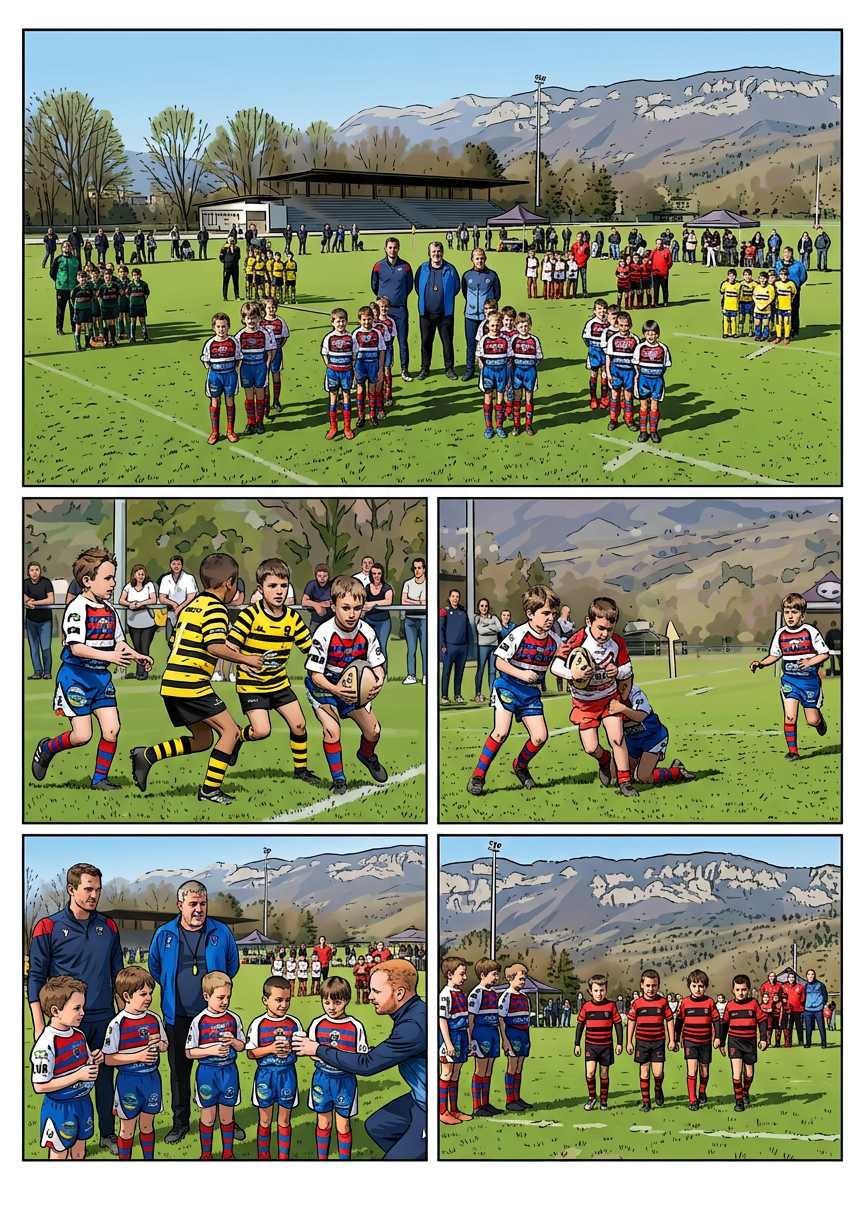
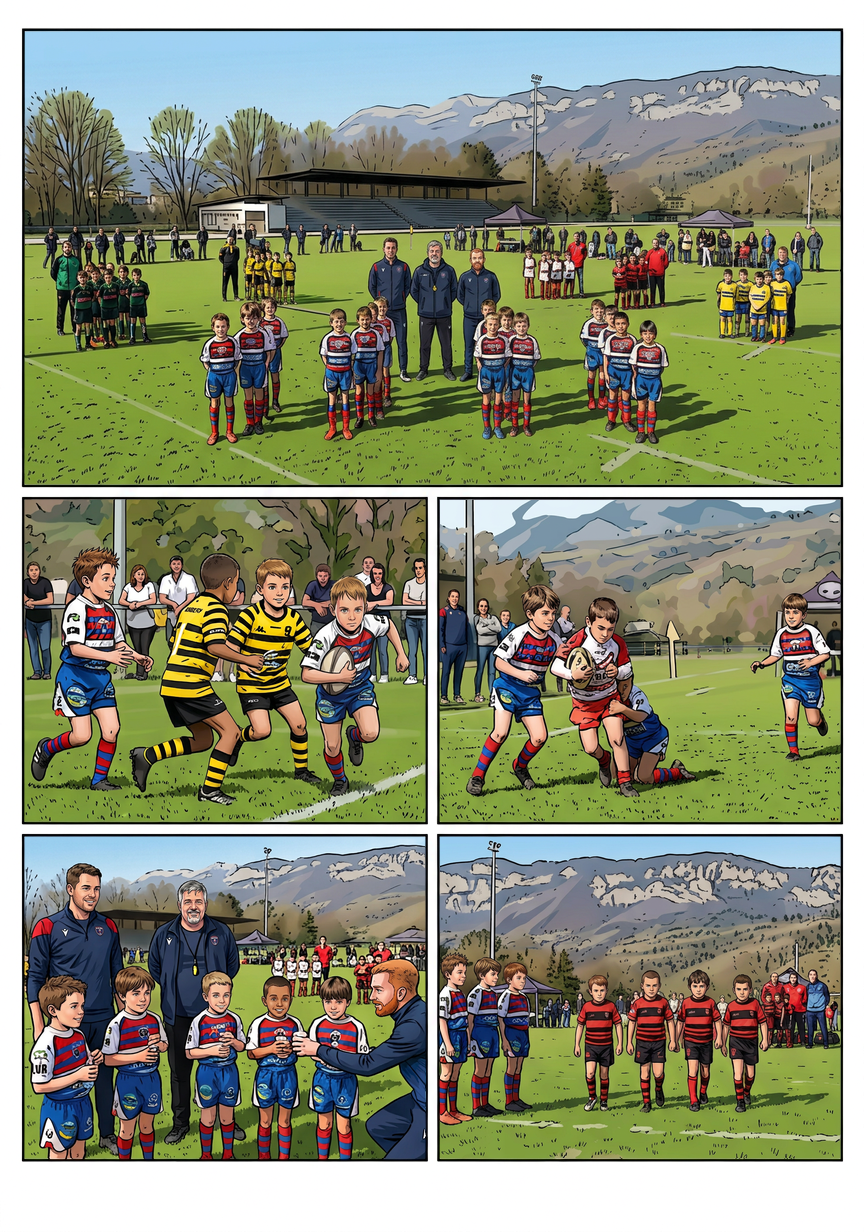
Reprendre les cinq cases du tournoi final de la planche 25

diff --git a/Planches-dessin/validation/REVUE-COUVERTURE.md b/Planches-dessin/validation/REVUE-COUVERTURE.md
@@ -21,13 +21,13 @@ Les huit recadrages exacts sont dans `revue-couverture/<Prénom>-couverture.png`
 |---|---:|
 | Planches vues en ensemble | 30 |
 | Vignettes réellement inventoriées | 153 |
-| Premières reprises intégrées, encore à relire | 124 |
+| Premières reprises intégrées, encore à relire | 129 |
 | Corrections seulement partielles, à poursuivre | 0 |
 | Contrôles sans retouche, encore à relire | 1 |
-| Autres vignettes restant à contrôler individuellement | 28 |
+| Autres vignettes restant à contrôler individuellement | 23 |
 | Validations définitives de style et ressemblance | **0** |
 
-Les 124 vignettes ayant reçu une intervention ne sont pas 124 vignettes définitivement conformes. Le reste de la revue demandée n’est pas terminé. Le manifeste `REVUE-COUVERTURE.json` conserve une entrée et un état explicite pour chacune des 153 vignettes.
+Les 129 vignettes ayant reçu une intervention ne sont pas 129 vignettes définitivement conformes. Le reste de la revue demandée n’est pas terminé. Le manifeste `REVUE-COUVERTURE.json` conserve une entrée et un état explicite pour chacune des 153 vignettes.
 
 ## Première livraison : 26/3 et 26/6
 
@@ -486,6 +486,26 @@ Preuves : `revue-couverture/lot-ab/24-AVANT-APRES.jpg` et cinq masques des inté
 **Réserves de relecture transversale :** homogénéité des profils de Léon entre 24/1, 24/3, 24/4 et 24/5, et continuité de l'encrage du décor d'arrière-plan de 24/2 (arbres et piliers du portail légèrement plus doux que dans 24/1).
 
 **Bilan courant : 124 premières reprises, 0 correction partielle, 1 contrôle sans retouche, 28 vignettes encore à examiner individuellement ; 0 validation définitive sur 153. Prochaine planche : 25.** Aucune bulle ni texte ajouté.
+
+## Vingt-septième livraison : les cinq cases de la planche 25
+
+Contrôle des cinq cases du « Grand Tournoi Final » avec la couverture pour unique référence d'identités et de style, en appui sur le scénario et la planche réaliste.
+
+**25/1 :** Panorama d'ouverture du tournoi final : reprise au centre de Flavien, Julien (veste ramenée du bleu roi au bleu marine canonique avec sifflet jaune) et Kilian (haut ramené du bleu ciel au bleu marine canonique), entourés au premier plan des quatre équipes de cinq joueurs du RCM aux visages adoucis, en conservant à l'arrière-plan les équipes de Savoie dans leurs couleurs respectives (Montmélian vert/noir, Chambéry/Aix jaune/noir, Albertville/Le Môle rouge/blanc, Rumilly rouge/noir, Thonon jaune/bleu).
+
+**25/2 :** Match 1 contre Chambéry (jaune et noir) : reprise de Léon à gauche venant de donner le ballon, des deux défenseurs de Chambéry en jaune et noir au centre, et d'Ayden (cheveux châtain clair, yeux gris-bleu) filant aplatir à droite, ainsi que des spectateurs derrière la main courante.
+
+**25/3 :** Match 2 contre Albertville (rouge et blanc) : reprise de Lyssandro à gauche, du porteur d'Albertville en rouge et blanc plaqué bas aux jambes par Nolann (teint mat et cheveux courts foncés rétablis), et de Milo en soutien à droite.
+
+**25/4 :** Pause hydratation auprès des coachs : reprise nette des huit visages (Flavien, Julien en veste bleu marine avec sifflet jaune, Kilian accroupi en survêtement bleu marine, et de gauche à droite Léon, Lyssandro, Ayden aux cheveux châtain clair, Nolann au teint mat et Milo tenant leurs gobelets).
+
+**25/5 :** Entrée de Rumilly (rouge et noir) : reprise à gauche de Léon (épis châtains), Lyssandro (mèche châtain) et Ayden (cheveux ramenés du blond au châtain clair), faisant face aux quatre joueurs de Rumilly en maillots rayés rouge et noir à manches courtes (suppression des sous-pulls noirs à manches longues).
+
+Preuves : `revue-couverture/lot-ac/25-AVANT-APRES.jpg` et cinq masques des intérieurs de cases. Cadres et gouttières hors masques intégralement préservés.
+
+**Réserves de relecture transversale :** finesse des visages à très petite échelle dans la vue d'ensemble 25/1, lisibilité partielle du visage de Nolann engagé au plaquage bas dans 25/3, et petits marquages résiduels sur les manches/shorts dans 25/2, 25/3 et 25/4.
+
+**Bilan courant : 129 premières reprises, 0 correction partielle, 1 contrôle sans retouche, 23 vignettes encore à examiner individuellement ; 0 validation définitive sur 153. Prochaine planche : 26.** Aucune bulle ni texte ajouté.
 
 ## Contrôles techniques et audits historiques
 

diff --git a/Planches-dessin/SUIVI-STYLE.md b/Planches-dessin/SUIVI-STYLE.md
@@ -2,7 +2,7 @@
 
 **La couverture `00-couverture-marvel.png` est désormais la seule référence de style et d’identité.** La décision utilisateur remplace la priorité V2 décrite dans l’historique ci-dessous. La couverture reste inchangée.
 
-Suivi actuel : [`validation/REVUE-COUVERTURE.md`](validation/REVUE-COUVERTURE.md) et son manifeste JSON : 153 vignettes inventoriées, 124 premières reprises, 1 contrôle sans retouche, 0 correction partielle, 28 autres contrôles individuels à faire, aucune validation définitive. Les anciennes approbations ne valent pas conformité au nouveau référentiel. La prise de 18/4 est reprise au lot U ; les raccords de 19/1 sont nettoyés au lot W, puis les cinq cases de 20 reprises au lot X. Planche 21 reprise au lot Y : souvenir mental de Flavien, gestes de réconciliation, visage clair d’Ayden isolé pour éviter sa confusion avec Nolann mat, et geste de Julien sur l’épaule de Flavien. Planche 22 reprise au lot Z : retour du printemps en manches courtes (suppression des sous-pulls d’hiver de 22-1), vestes marine des coachs (22-2 et 22-4), prise de parole de Léon/Lyssandro/Nolann (22-3) et clin d’œil complice de Milo (22-5). Planche 23 reprise au lot AA : quatre bandes horizontales (passe en ligne, défense alignée autour d’Ayden, plaquage bas et soutien autour de Lyssandro, regard de Flavien/Julien/Kilian en tenues marine). Planche 24 reprise au lot AB : cheveux châtain clair d’Ayden au portail de l’école (24-1), visage enfantin serein de Léon (24-2), et échanges père-fils entre Flavien et Léon à Saint-Sulpice (24-3 à 24-5). Prochaine planche : 25. Réserves transversales sur contacts de plaquage, âge/traits sous bonnets et conformité des motifs/écussons/sponsors des tenues. Aucune bulle ni texte de dialogue ajouté.
+Suivi actuel : [`validation/REVUE-COUVERTURE.md`](validation/REVUE-COUVERTURE.md) et son manifeste JSON : 153 vignettes inventoriées, 129 premières reprises, 1 contrôle sans retouche, 0 correction partielle, 23 autres contrôles individuels à faire, aucune validation définitive. Les anciennes approbations ne valent pas conformité au nouveau référentiel. La prise de 18/4 est reprise au lot U ; les raccords de 19/1 sont nettoyés au lot W, puis les cinq cases de 20 reprises au lot X. Planche 21 reprise au lot Y : souvenir mental de Flavien, gestes de réconciliation, visage clair d’Ayden isolé pour éviter sa confusion avec Nolann mat, et geste de Julien sur l’épaule de Flavien. Planche 22 reprise au lot Z : retour du printemps en manches courtes (suppression des sous-pulls d’hiver de 22-1), vestes marine des coachs (22-2 et 22-4), prise de parole de Léon/Lyssandro/Nolann (22-3) et clin d’œil complice de Milo (22-5). Planche 23 reprise au lot AA : quatre bandes horizontales (passe en ligne, défense alignée autour d’Ayden, plaquage bas et soutien autour de Lyssandro, regard de Flavien/Julien/Kilian en tenues marine). Planche 24 reprise au lot AB : cheveux châtain clair d’Ayden au portail de l’école (24-1), visage enfantin serein de Léon (24-2), et échanges père-fils entre Flavien et Léon à Saint-Sulpice (24-3 à 24-5). Planche 25 reprise au lot AC : panorama des équipes du tournoi final avec Flavien/Julien/Kilian en bleu marine (25-1), victoires contre Chambéry jaune/noir (25-2) et Albertville rouge/blanc avec plaquage bas de Nolann (25-3), pause eau des cinq copains avec les trois coachs (25-4) et entrée de Rumilly rouge/noir en manches courtes (25-5). Prochaine planche : 26. Réserves transversales sur contacts de plaquage, âge/traits sous bonnets et conformité des motifs/écussons/sponsors des tenues. Aucune bulle ni texte de dialogue ajouté.
 
 ---
 
